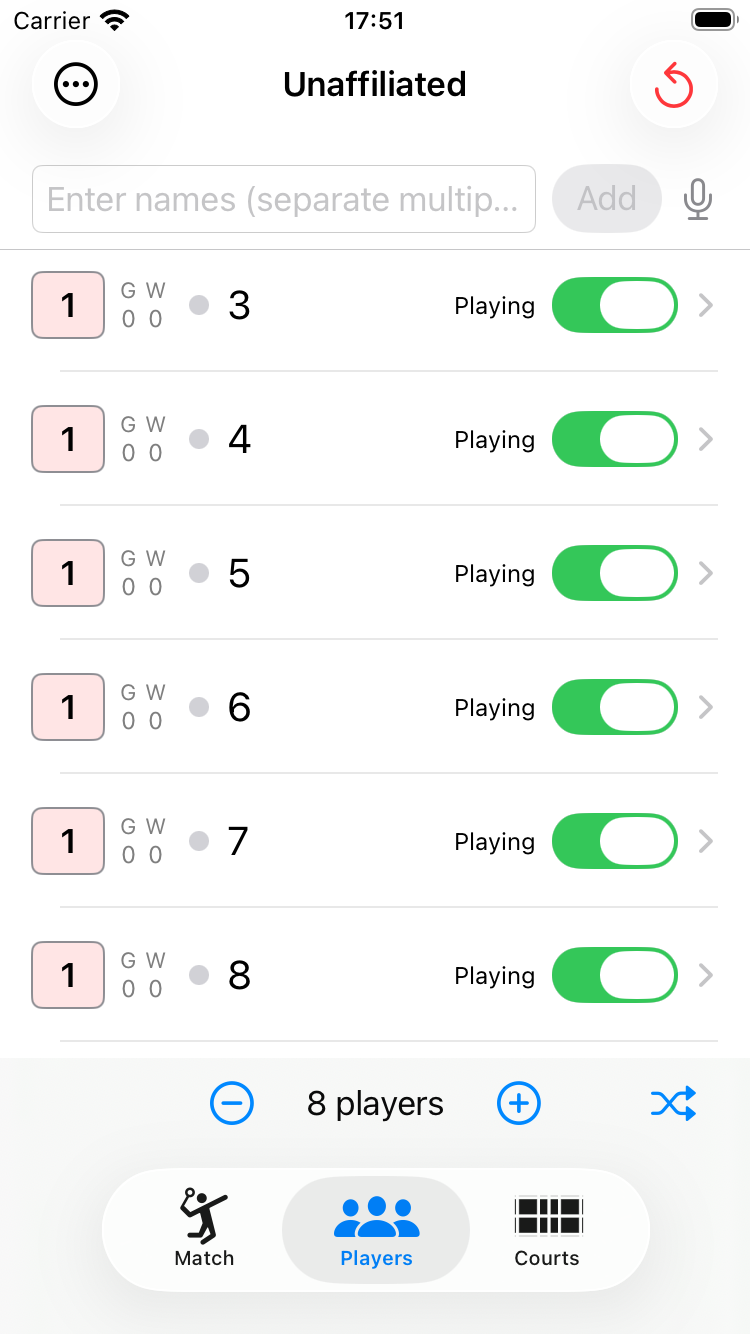
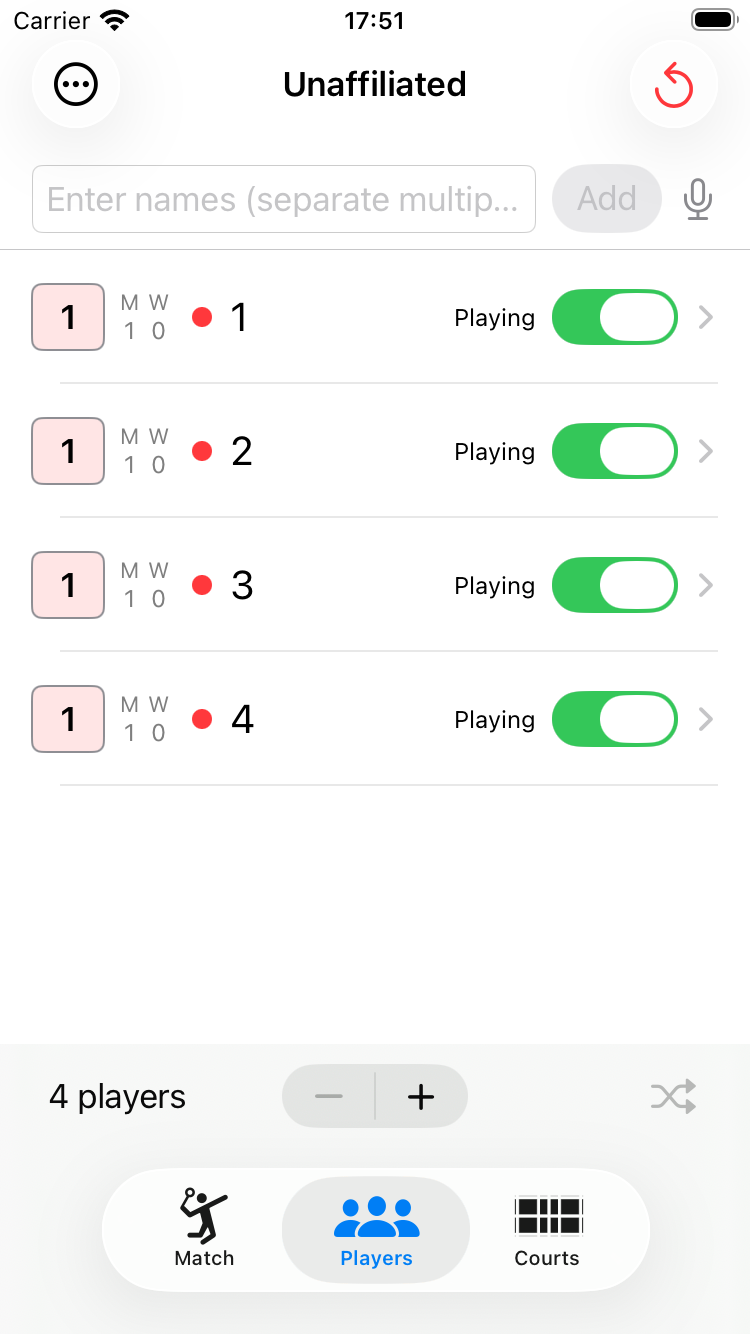
試合タブの+/-ボタン復活とPlayers/Courtsタブの操作性統一をヘルプに反映

diff --git a/game-tab.html b/game-tab.html
@@ -58,6 +58,7 @@
 <p>プレイヤーは自動的に各コートへ割り振られ、同じ相手との組み合わせが続けて重ならないよう調整されます。1ラウンドが終わったらボタンをタップして次のラウンドを生成する、という流れで進行します。</p>
 <div class="ss"><img src="images/game-round-main.png" alt="ラウンドモードの組み合わせ一覧"></div>
 <div class="tip">💡 Round（ラウンド）と Free（フリー）は、試合の途中でも何度でも切り替えられます。切り替えてもそれまでの試合記録は保持されます。</div>
+<div class="tip">💡 プレイヤー数・コート数の表示の下にある <code>−</code> / <code>+</code> ボタンで、Players タブ・Courts タブを開かなくてもその場で人数・コート数を増減できます（iPad では Players・Courts が常に画面に表示されているため、このボタンはありません）。</div>
 
 <h3 id="undo">直前の組み合わせを取り消す</h3>
 <p>Match タブで、最後のラウンドの行を<strong>左にスワイプ</strong>すると削除できます。プレイヤーの出場回数なども元の状態に戻ります。</p>

diff --git a/home.html b/home.html
@@ -66,6 +66,7 @@
   <li>スコア入力画面に「Game Point」（1ゲームの勝利に必要な得点）の設定を追加。デフォルト21点で、公式ルール通り20点オールで2点差勝ち・29点オールで30点目の1点勝ち抜けとなる自動判定に対応し、勝敗が決まると「Finished」トグルが自動的にオンになるように変更</li>
   <li>G1・G2 が終了すると、次のゲーム（G2・G3）のエンド（前のゲームと逆側）とサーブ権（前のゲームの勝者側）を自動的に設定するように変更</li>
   <li>スコア入力画面の「End」「Serve」ボタンを廃止し、それぞれプレイヤー表示の間・得点ボタンの間の小さな <code>⇆</code> ボタンに変更</li>
+  <li>試合タブのプレイヤー数・コート数表示の下に <code>−</code> / <code>+</code> ボタンを復活（SwiftUI移行時に一時的になくなっていた機能です）。Players タブ・Courts タブを開かなくてもその場で人数・コート数を増減できます</li>
 </ul>
 
 <h2>フィードバック</h2>

diff --git a/index.html b/index.html
@@ -66,6 +66,7 @@
   <li>スコア入力画面に「Game Point」（1ゲームの勝利に必要な得点）の設定を追加。デフォルト21点で、公式ルール通り20点オールで2点差勝ち・29点オールで30点目の1点勝ち抜けとなる自動判定に対応し、勝敗が決まると「Finished」トグルが自動的にオンになるように変更</li>
   <li>G1・G2 が終了すると、次のゲーム（G2・G3）のエンド（前のゲームと逆側）とサーブ権（前のゲームの勝者側）を自動的に設定するように変更</li>
   <li>スコア入力画面の「End」「Serve」ボタンを廃止し、それぞれプレイヤー表示の間・得点ボタンの間の小さな <code>⇆</code> ボタンに変更</li>
+  <li>試合タブのプレイヤー数・コート数表示の下に <code>−</code> / <code>+</code> ボタンを復活（SwiftUI移行時に一時的になくなっていた機能です）。Players タブ・Courts タブを開かなくてもその場で人数・コート数を増減できます</li>
 </ul>
 
 <h2>フィードバック</h2>

diff --git a/update-history.html b/update-history.html
@@ -24,6 +24,7 @@
   <li>スコア入力画面に「Game Point」（1ゲームの勝利に必要な得点）の設定を追加。デフォルト21点で、公式ルール通り20点オールで2点差勝ち・29点オールで30点目の1点勝ち抜けとなる自動判定に対応し、勝敗が決まると「Finished」トグルが自動的にオンになるように変更</li>
   <li>G1・G2 が終了すると、次のゲーム（G2・G3）のエンド（前のゲームと逆側）とサーブ権（前のゲームの勝者側）を自動的に設定するように変更</li>
   <li>スコア入力画面の「End」「Serve」ボタンを廃止し、それぞれプレイヤー表示の間・得点ボタンの間の小さな <code>⇆</code> ボタンに変更</li>
+  <li>試合タブのプレイヤー数・コート数表示の下に <code>−</code> / <code>+</code> ボタンを復活（SwiftUI移行時に一時的になくなっていた機能です）。Players タブ・Courts タブを開かなくてもその場で人数・コート数を増減できます</li>
 </ul>
 
 <h2>v1.21.0</h2>
